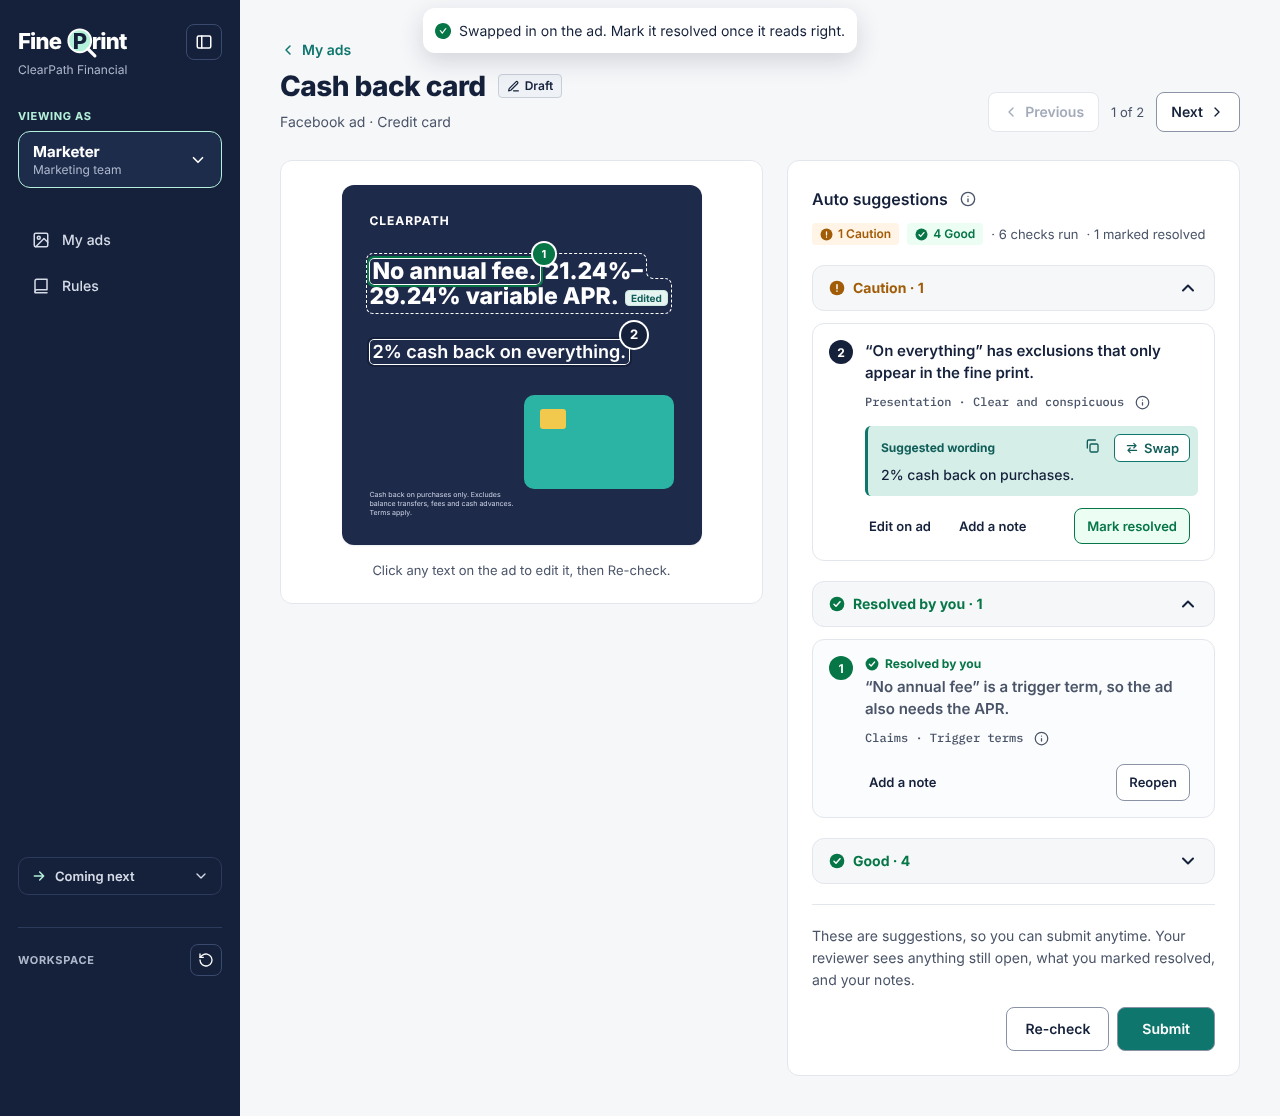
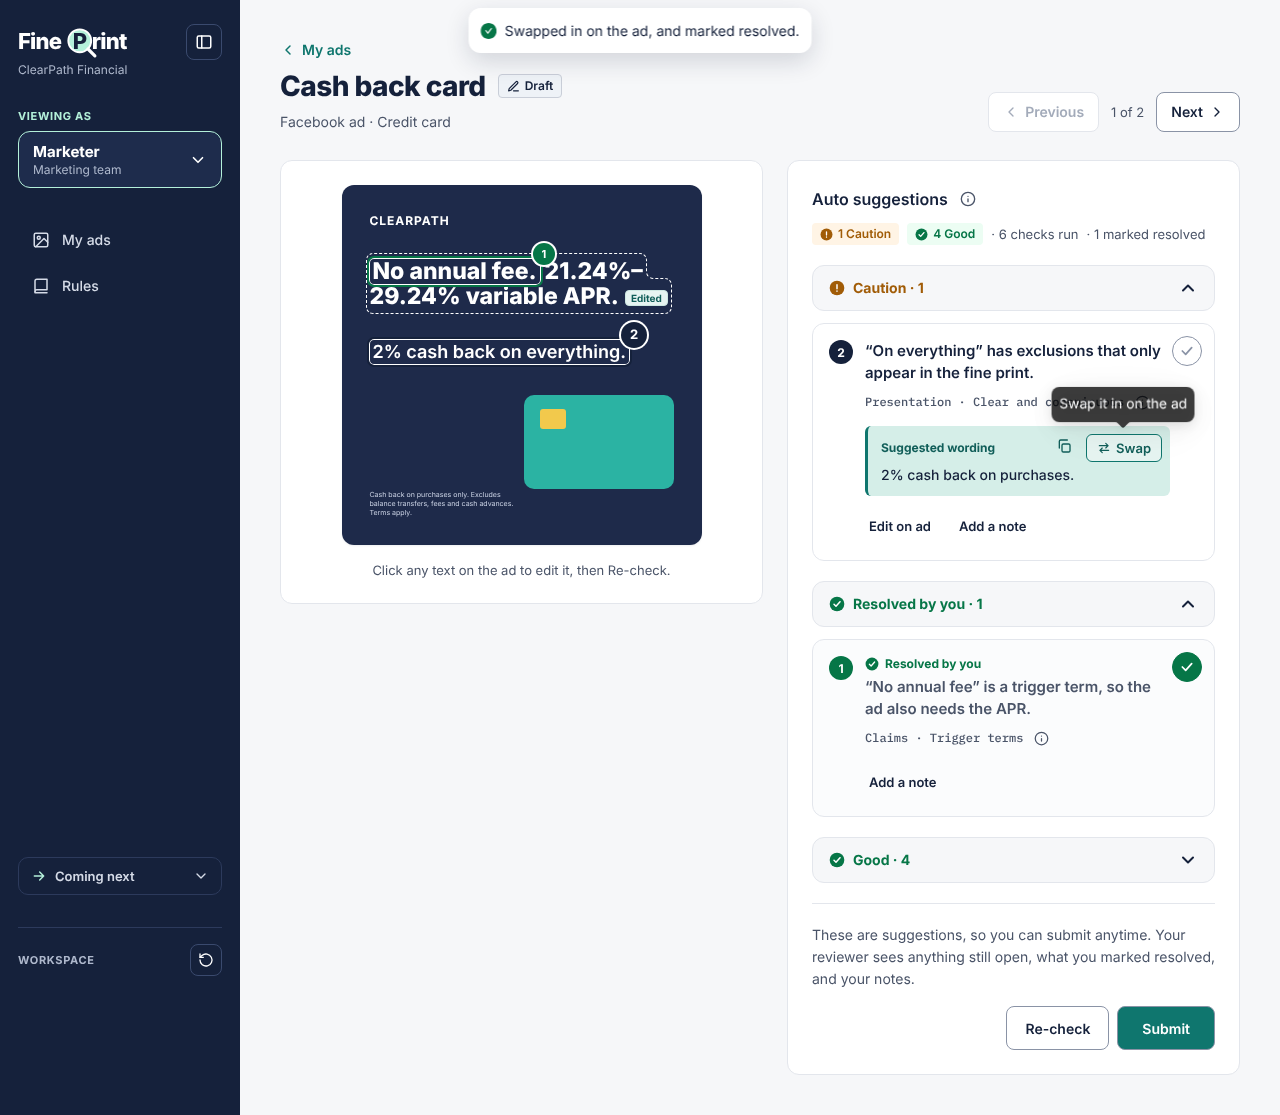
Resolve with a check in the card's corner; Swap resolves on its own
The Mark resolved button becomes a check-circle in the top-right of each
suggestion (outlined until resolved, green after; click to reopen).
Swapping in wording or a readable size marks the suggestion resolved,
on the draft copy the edit creates.

Claude-Session: https://claude.ai/code/session_01GajTyz92bBm6dN9cgoMqN2

diff --git a/src/pages/PreCheckPage.tsx b/src/pages/PreCheckPage.tsx
@@ -135,12 +135,30 @@ function PreCheckCard({
       id={`finding-${n}`}
       data-finding={n}
       data-resolved={resolved || undefined}
-      style={{ ...cardStyle(selected), ...(resolved ? { background: '#FBFCFD' } : {}) }}
+      style={{ ...cardStyle(selected), position: 'relative', ...(resolved ? { background: '#FBFCFD' } : {}) }}
       onClick={onSelect}
       aria-label={`Suggestion ${n}`}
     >
       <NumberBadge n={n} selected={selected} onSelect={onSelect} tone={resolved ? 'resolved' : 'default'} />
-      <div style={{ flexGrow: 1, minWidth: 0, display: 'flex', flexDirection: 'column', gap: 10 }}>
+      {editable && (
+        // Resolve like a comment: a check in the corner. Swap resolves on its own; this is for everything else.
+        <Tooltip title={resolved ? 'Resolved. Click to reopen.' : 'Mark resolved'}>
+          <button
+            type="button"
+            className="fp-resolve-check"
+            data-on={resolved || undefined}
+            aria-label={resolved ? 'Reopen' : 'Mark resolved'}
+            aria-pressed={resolved}
+            onClick={(e) => {
+              e.stopPropagation()
+              onResolve(!resolved)
+            }}
+          >
+            <Icon name="check" size={16} strokeWidth={2.6} />
+          </button>
+        </Tooltip>
+      )}
+      <div style={{ flexGrow: 1, minWidth: 0, display: 'flex', flexDirection: 'column', gap: 10, paddingRight: editable ? 28 : 0 }}>
         <div style={{ display: 'flex', flexDirection: 'column', gap: 4 }}>
           {resolved && (
             <span style={{ display: 'inline-flex', alignItems: 'center', gap: 6, fontSize: 12, lineHeight: '16px', fontWeight: 700, color: '#067647' }}>
@@ -218,15 +236,6 @@ function PreCheckCard({
             )}
             <button type="button" className="fp-quiet fp-small-button fp-card-link" aria-expanded={noteOpen} onClick={() => setNoteOpen((o) => !o)}>
               Add a note
-            </button>
-            <button
-              type="button"
-              className={`fp-small-button ${resolved ? 'fp-secondary' : 'fp-resolve'}`}
-              style={{ marginLeft: 'auto' }}
-              aria-pressed={resolved}
-              onClick={() => onResolve(!resolved)}
-            >
-              {resolved ? 'Reopen' : 'Mark resolved'}
             </button>
           </div>
         )}
@@ -385,12 +394,14 @@ function PreCheckScreen({ detail, reload }: { detail: AdDetail; reload: () => vo
     )
   }, [working.layers, baseline])
 
-  const saveLayer = async (layerId: string, text: string, fontSize?: number) => {
+  /** Save the copy; `applied` is the suggestion this edit carries out, which then counts as resolved. */
+  const saveLayer = async (layerId: string, text: string, fontSize?: number, applied?: Numbered) => {
     const layers = working.layers.map((l) =>
       l.id === layerId ? { ...l, text, ...(fontSize ? { style: { ...l.style, fontSize } } : {}) } : l,
     )
+    const resolve = applied ? { rule_id: applied.finding.rule_id, layer_id: applied.finding.layer_id } : undefined
     try {
-      await api.put(`/api/ads/${ad.id}/copy`, { layers })
+      await api.put(`/api/ads/${ad.id}/copy`, { layers, resolve })
       reload()
     } catch (e) {
       message.error(e instanceof ApiError ? e.message : "Couldn't save your edit. Try again.")
@@ -401,8 +412,8 @@ function PreCheckScreen({ detail, reload }: { detail: AdDetail; reload: () => vo
     const { layer_id, quote, suggested_fix } = item.finding
     const text = layerText(layer_id)
     if (!layer_id || !quote || !suggested_fix || text === undefined || !text.includes(quote)) return
-    await saveLayer(layer_id, text.replace(quote, suggested_fix))
-    message.success('Swapped in on the ad. Mark it resolved once it reads right.')
+    await saveLayer(layer_id, text.replace(quote, suggested_fix), undefined, item)
+    message.success('Swapped in on the ad, and marked resolved.')
   }
 
   /** A suggestion about text too small to read can be fixed here: the size is part of the ad's data. */
@@ -418,8 +429,8 @@ function PreCheckScreen({ detail, reload }: { detail: AdDetail; reload: () => vo
   const makeReadable = async (item: Numbered) => {
     const layer = working.layers.find((l) => l.id === item.finding.layer_id)
     if (!layer) return
-    await saveLayer(layer.id, layer.text, READABLE_SIZE)
-    message.success(`Swapped in ${READABLE_SIZE}px. Mark it resolved once it reads right.`)
+    await saveLayer(layer.id, layer.text, READABLE_SIZE, item)
+    message.success(`Swapped in ${READABLE_SIZE}px, and marked resolved.`)
   }
 
   const cardProps = (item: Numbered) => ({

diff --git a/e2e/loop.spec.ts b/e2e/loop.spec.ts
@@ -21,29 +21,29 @@ test('pre-check: swap the wording, copy it, edit on ad, mark resolved, a note, a
   expect(await page.evaluate(() => navigator.clipboard.readText())).toBe('No annual fee. 21.24%–29.24% variable APR.')
   await page.screenshot({ path: 'screenshots/m5-pre-check.png', fullPage: true })
 
-  // 1. Swap puts the suggested words in place of the flagged ones, on the ad.
+  // 1. Swap puts the suggested words in place of the flagged ones, on the ad, and that resolves it.
   const first = page.locator('[data-finding="1"]')
   await first.getByRole('button', { name: 'Swap the flagged words for this wording' }).click()
-  await expect(page.getByText('Swapped in on the ad.', { exact: false })).toBeVisible()
+  await expect(page.getByText('Swapped in on the ad, and marked resolved.')).toBeVisible()
   await expect(page.locator('[data-layer="headline"]')).toContainText('21.24%–29.24% variable APR.')
-  await expect(first.getByRole('button', { name: 'Swapped' })).toBeDisabled()
   await expect(page.locator('[data-layer="headline"] .fp-edited-badge')).toHaveText('Edited')
+  await expect(first.getByRole('button', { name: 'Reopen' })).toHaveAttribute('aria-pressed', 'true')
+  await expect(page.getByRole('button', { name: /Resolved by you · 1/ })).toBeVisible()
+  await expect(page.getByText('· 1 marked resolved')).toBeVisible()
+  await expect(page.getByRole('button', { name: /Critical · 1/ })).toHaveCount(0)
+  await page.screenshot({ path: 'screenshots/final/03-pre-check-resolved.png', fullPage: true })
 
-  // 2. "Edit on ad" opens that text for editing.
+  // 2. The check in the corner reopens it: the wording shows as used, and Edit on ad opens that text.
+  await first.getByRole('button', { name: 'Reopen' }).click()
+  await expect(page.getByRole('button', { name: /Critical · 1/ })).toBeVisible()
+  await expect(first.getByRole('button', { name: 'Swapped' })).toBeDisabled()
   await first.getByRole('button', { name: 'Edit on ad' }).click()
   const editor = page.getByRole('textbox', { name: 'Edit text' })
   await expect(editor).toBeFocused()
   await editor.press('Escape')
 
-  // 3. The marketer marks it resolved by hand; it moves to its own group, and can be reopened.
+  // 3. Resolving by hand is the same check, for fixes a swap doesn't cover.
   await first.getByRole('button', { name: 'Mark resolved' }).click()
-  await expect(page.getByRole('button', { name: /Resolved by you · 1/ })).toBeVisible()
-  await expect(page.getByText('· 1 marked resolved')).toBeVisible()
-  await expect(page.getByRole('button', { name: /Critical · 1/ })).toHaveCount(0)
-  await page.screenshot({ path: 'screenshots/final/03-pre-check-resolved.png', fullPage: true })
-  await page.locator('[data-finding="1"]').getByRole('button', { name: 'Reopen' }).click()
-  await expect(page.getByRole('button', { name: /Critical · 1/ })).toBeVisible()
-  await page.locator('[data-finding="1"]').getByRole('button', { name: 'Mark resolved' }).click()
   await expect(page.getByRole('button', { name: /Resolved by you · 1/ })).toBeVisible()
 
   const second = page.locator('[data-finding="2"]')
@@ -178,7 +178,7 @@ test('a disclosure too small to read is made readable in Pre-check, and What cha
   const card = page.locator('article', { hasText: 'The disclosure is too small to read' })
   await expect(card.getByText('Suggested size')).toBeVisible()
   await card.getByRole('button', { name: 'Swap in 11px' }).click()
-  await expect(card.getByRole('button', { name: 'Swapped', exact: true })).toBeDisabled()
+  await expect(card.getByRole('button', { name: 'Reopen' })).toHaveAttribute('aria-pressed', 'true')  // swapping resolves it
   const disclosure = page.locator('section[aria-label="Your ad"] [data-layer="disclosure"]')
   await expect(disclosure).toHaveCSS('font-size', '11px')
   await expect(disclosure.locator('.fp-edited-badge')).toBeVisible()

diff --git a/e2e/tour.spec.ts b/e2e/tour.spec.ts
@@ -38,7 +38,7 @@ test('README tour', async ({ page }) => {
   await rate.getByRole('button', { name: 'Swap the flagged words for this wording' }).click()
   await expect(page.locator('[data-layer="headline"]')).toContainText('from 7.99% to 29.99% APR with autopay')
   await expect(page.locator('.fp-edited-badge')).toBeVisible()
-  await rate.getByRole('button', { name: 'Mark resolved' }).click()
+  // Swapping resolves it; no second click.
   // The suggestion the reviewer kept sits in From your reviewer, once, and shows it's resolved there.
   const fromReviewer = page.locator('section[aria-labelledby="from-reviewer"]')
   await expect(fromReviewer.locator('article', { hasText: 'The rate claim is missing the full APR range' })).toContainText('Resolved by you')

diff --git a/src/index.css b/src/index.css
@@ -1084,3 +1084,30 @@ a.fp-pager:hover {
 .fp-coming-next li button:hover {
   color: #ffffff;
 }
+
+/* Resolve a suggestion like a comment: an outlined check in the card's corner, filled green once resolved. */
+.fp-resolve-check {
+  position: absolute;
+  top: 12px;
+  right: 12px;
+  width: 30px;
+  height: 30px;
+  border-radius: 9999px;
+  border: 1.5px solid #8a93a6;
+  background: #ffffff;
+  color: #8a93a6;
+  display: flex;
+  align-items: center;
+  justify-content: center;
+  padding: 0;
+  cursor: pointer;
+}
+.fp-resolve-check:hover {
+  border-color: #067647;
+  color: #067647;
+}
+.fp-resolve-check[data-on] {
+  background: #067647;
+  border-color: #067647;
+  color: #ffffff;
+}

diff --git a/server/actions.py b/server/actions.py
@@ -250,12 +250,18 @@ def _validate_layers(version: dict, layers: list) -> list[dict]:
     return cleaned
 
 
-def save_copy(db: Db, ad_id: int, layers: list, now: datetime) -> dict:
+def save_copy(db: Db, ad_id: int, layers: list, now: datetime, resolve: dict | None = None) -> dict:
+    """Save the marketer's copy. `resolve` ({rule_id, layer_id}) marks the suggestion it applied as resolved."""
     ad = _ad(db, ad_id)
     if ad["status"] not in ("draft", "changes_required"):
         raise ActionError("Only drafts and ads that need changes can be edited", 409)
     version = _working_version(db, ad, create=True)
     db.update("ad_versions", version["id"], {"layers": _validate_layers(version, layers)})
+    if isinstance(resolve, dict) and resolve.get("rule_id"):
+        # Applying a suggestion resolves it: on the working version, which may have just been copied.
+        db.run("""UPDATE findings SET resolved_by_submitter = 1 WHERE ad_version_id = ? AND origin = 'auto'
+                  AND rule_id = ? AND COALESCE(layer_id, '') = COALESCE(?, '')""",
+               (version["id"], resolve["rule_id"], resolve.get("layer_id")))
     db.update("ads", ad_id, {"updated_at": iso(now)})
     db.commit()
     return repo.version_detail(db, db.one("SELECT * FROM ad_versions WHERE id = ?", (version["id"],)))

diff --git a/tests/server/test_precheck.py b/tests/server/test_precheck.py
@@ -136,3 +136,14 @@ def test_a_too_small_disclosure_can_be_made_readable(db):
     open_rules = {f["rule_id"] for f in repo.ad_detail(db, 3)["current"]["findings"] if f["origin"] == "auto"}
     assert "clear-and-conspicuous" not in open_rules
     assert "rate-claims" in open_rules  # the words weren't touched
+
+
+def test_applying_a_suggestion_resolves_it_on_the_new_draft(db):
+    actions.decide(db, 3, "changes_required", "Fix the rate.", NOW)
+    layers = repo.ad_detail(db, 3)["current"]["layers"]
+    swapped = [{**l, "text": l["text"].replace("as low as 7.99% APR", "from 7.99% to 29.99% APR with autopay")}
+               if l["id"] == "headline" else l for l in layers]
+    draft = actions.save_copy(db, 3, swapped, NOW, resolve={"rule_id": "rate-claims", "layer_id": "headline"})
+    by_rule = {f["rule_id"]: f for f in draft["findings"] if f["origin"] == "auto"}
+    assert by_rule["rate-claims"]["resolved_by_submitter"] is True
+    assert by_rule["credit-score-claims"]["resolved_by_submitter"] is False

diff --git a/server/app.py b/server/app.py
@@ -133,7 +133,8 @@ def create_app(database_url: str | None = None, clock: Callable = utcnow) -> Fla
 
     @app.put("/api/ads/<int:ad_id>/copy")
     def save_copy(ad_id: int):
-        return jsonify(actions.save_copy(get_db(), ad_id, body().get("layers"), now()))
+        data = body()
+        return jsonify(actions.save_copy(get_db(), ad_id, data.get("layers"), now(), resolve=data.get("resolve")))
 
     @app.post("/api/ads/<int:ad_id>/submit")
     def submit(ad_id: int):

diff --git a/README.md b/README.md
@@ -80,7 +80,7 @@ More decisions, and the defaults chosen where the brief was unclear, are in `BLO
 From spec section 11. The sidebar shows the first three under "Coming next":
 
 - **Turn compliance documents into rules.** Upload a policy, get suggested rules to review.
-- **Upload your own ads** (images, PDFs, text) instead of picking from the sample library. This was left out on purpose. Every part of the review (pins on the exact words, the auto check, What changed, Swap, Mark resolved) works because an ad is text layers on a template. An uploaded image has none of that: it would first need its text read out and located on the image (so pins land in the right place), plus file storage. Until then, marketers fix copy in place, and design changes happen in their design tool.
+- **Upload your own ads** (images, PDFs, text) instead of picking from the sample library. This was left out on purpose. Every part of the review (pins on the exact words, the auto check, What changed, Swap, resolving) works because an ad is text layers on a template. An uploaded image has none of that: it would first need its text read out and located on the image (so pins land in the right place), plus file storage. Until then, marketers fix copy in place, and design changes happen in their design tool.
 - **Search past decisions** for precedent.
 - **A safety check for hidden instructions in affiliate content**, so text inside an ad is checked, never followed. It was cut from the MVP to stay focused. Today the prompt already treats ad text as content only.
 - **Pin a reviewer finding to a spot on the ad.**
@@ -91,7 +91,7 @@ From spec section 11. The sidebar shows the first three under "Coming next":
 2. **Review Fall personal loan.** Click **Review** (it opens a new tab). Pins on the ad and cards on the right are linked. Try the info icon next to "Claims · Rate claims", the submitter's note, and **Keep** on finding 1. Add a finding of your own, such as "Pick an image that doesn't suggest same-day cash."
 3. **Request changes.** The message comes prefilled from what you kept and added. The next ad in the queue opens in the same tab, and the toast offers **Undo** for 5 seconds.
 4. **Switch to Marketer** (VIEWING AS, top left). Fall personal loan now shows "Changes required · 2 comments from your reviewer" in My ads.
-5. **Fix it and resubmit.** Click **Pre-check**. The reviewer's comments are at the top. On the rate suggestion, click **Swap** (top right of the suggested wording): the headline now reads "Personal loans from 7.99% to 29.99% APR with autopay" and shows "Edited". (Any text on the ad can also be clicked and edited by hand.) Click **Mark resolved**, add a note if you like, and **Submit**. It goes back to Pending as v2.
+5. **Fix it and resubmit.** Click **Pre-check**. The reviewer's comments are at the top. On the rate suggestion, click **Swap** (top right of the suggested wording): the headline now reads "Personal loans from 7.99% to 29.99% APR with autopay" and shows "Edited". (Any text on the ad can also be clicked and edited by hand.) Swapping marks it resolved: the check in the card's corner turns green. Add a note if you like, and **Submit**. It goes back to Pending as v2.
 6. **Approve the What changed view.** Switch back to Reviewer and open Fall personal loan (now v2) from the Queue. You see v1 above v2, the rate claim under **Resolved**, and green markers on the change. Click **Approve**.
 7. **Check History.** Search for "Fall personal loan" to find it at the top. The approved-this-week count went up by one. Click the name for the drawer with its full activity, and **Download ad** to get the approved ad as a PNG, ready to launch.
 8. **Re-check a draft.** As Marketer, open **Pre-check** on Cash back card, change some copy and click **Re-check**. With an `ANTHROPIC_API_KEY` set, the live check runs every rule that applies against the new copy. Without one, you'll see "Auto check unavailable right now. You can still submit as usual."
